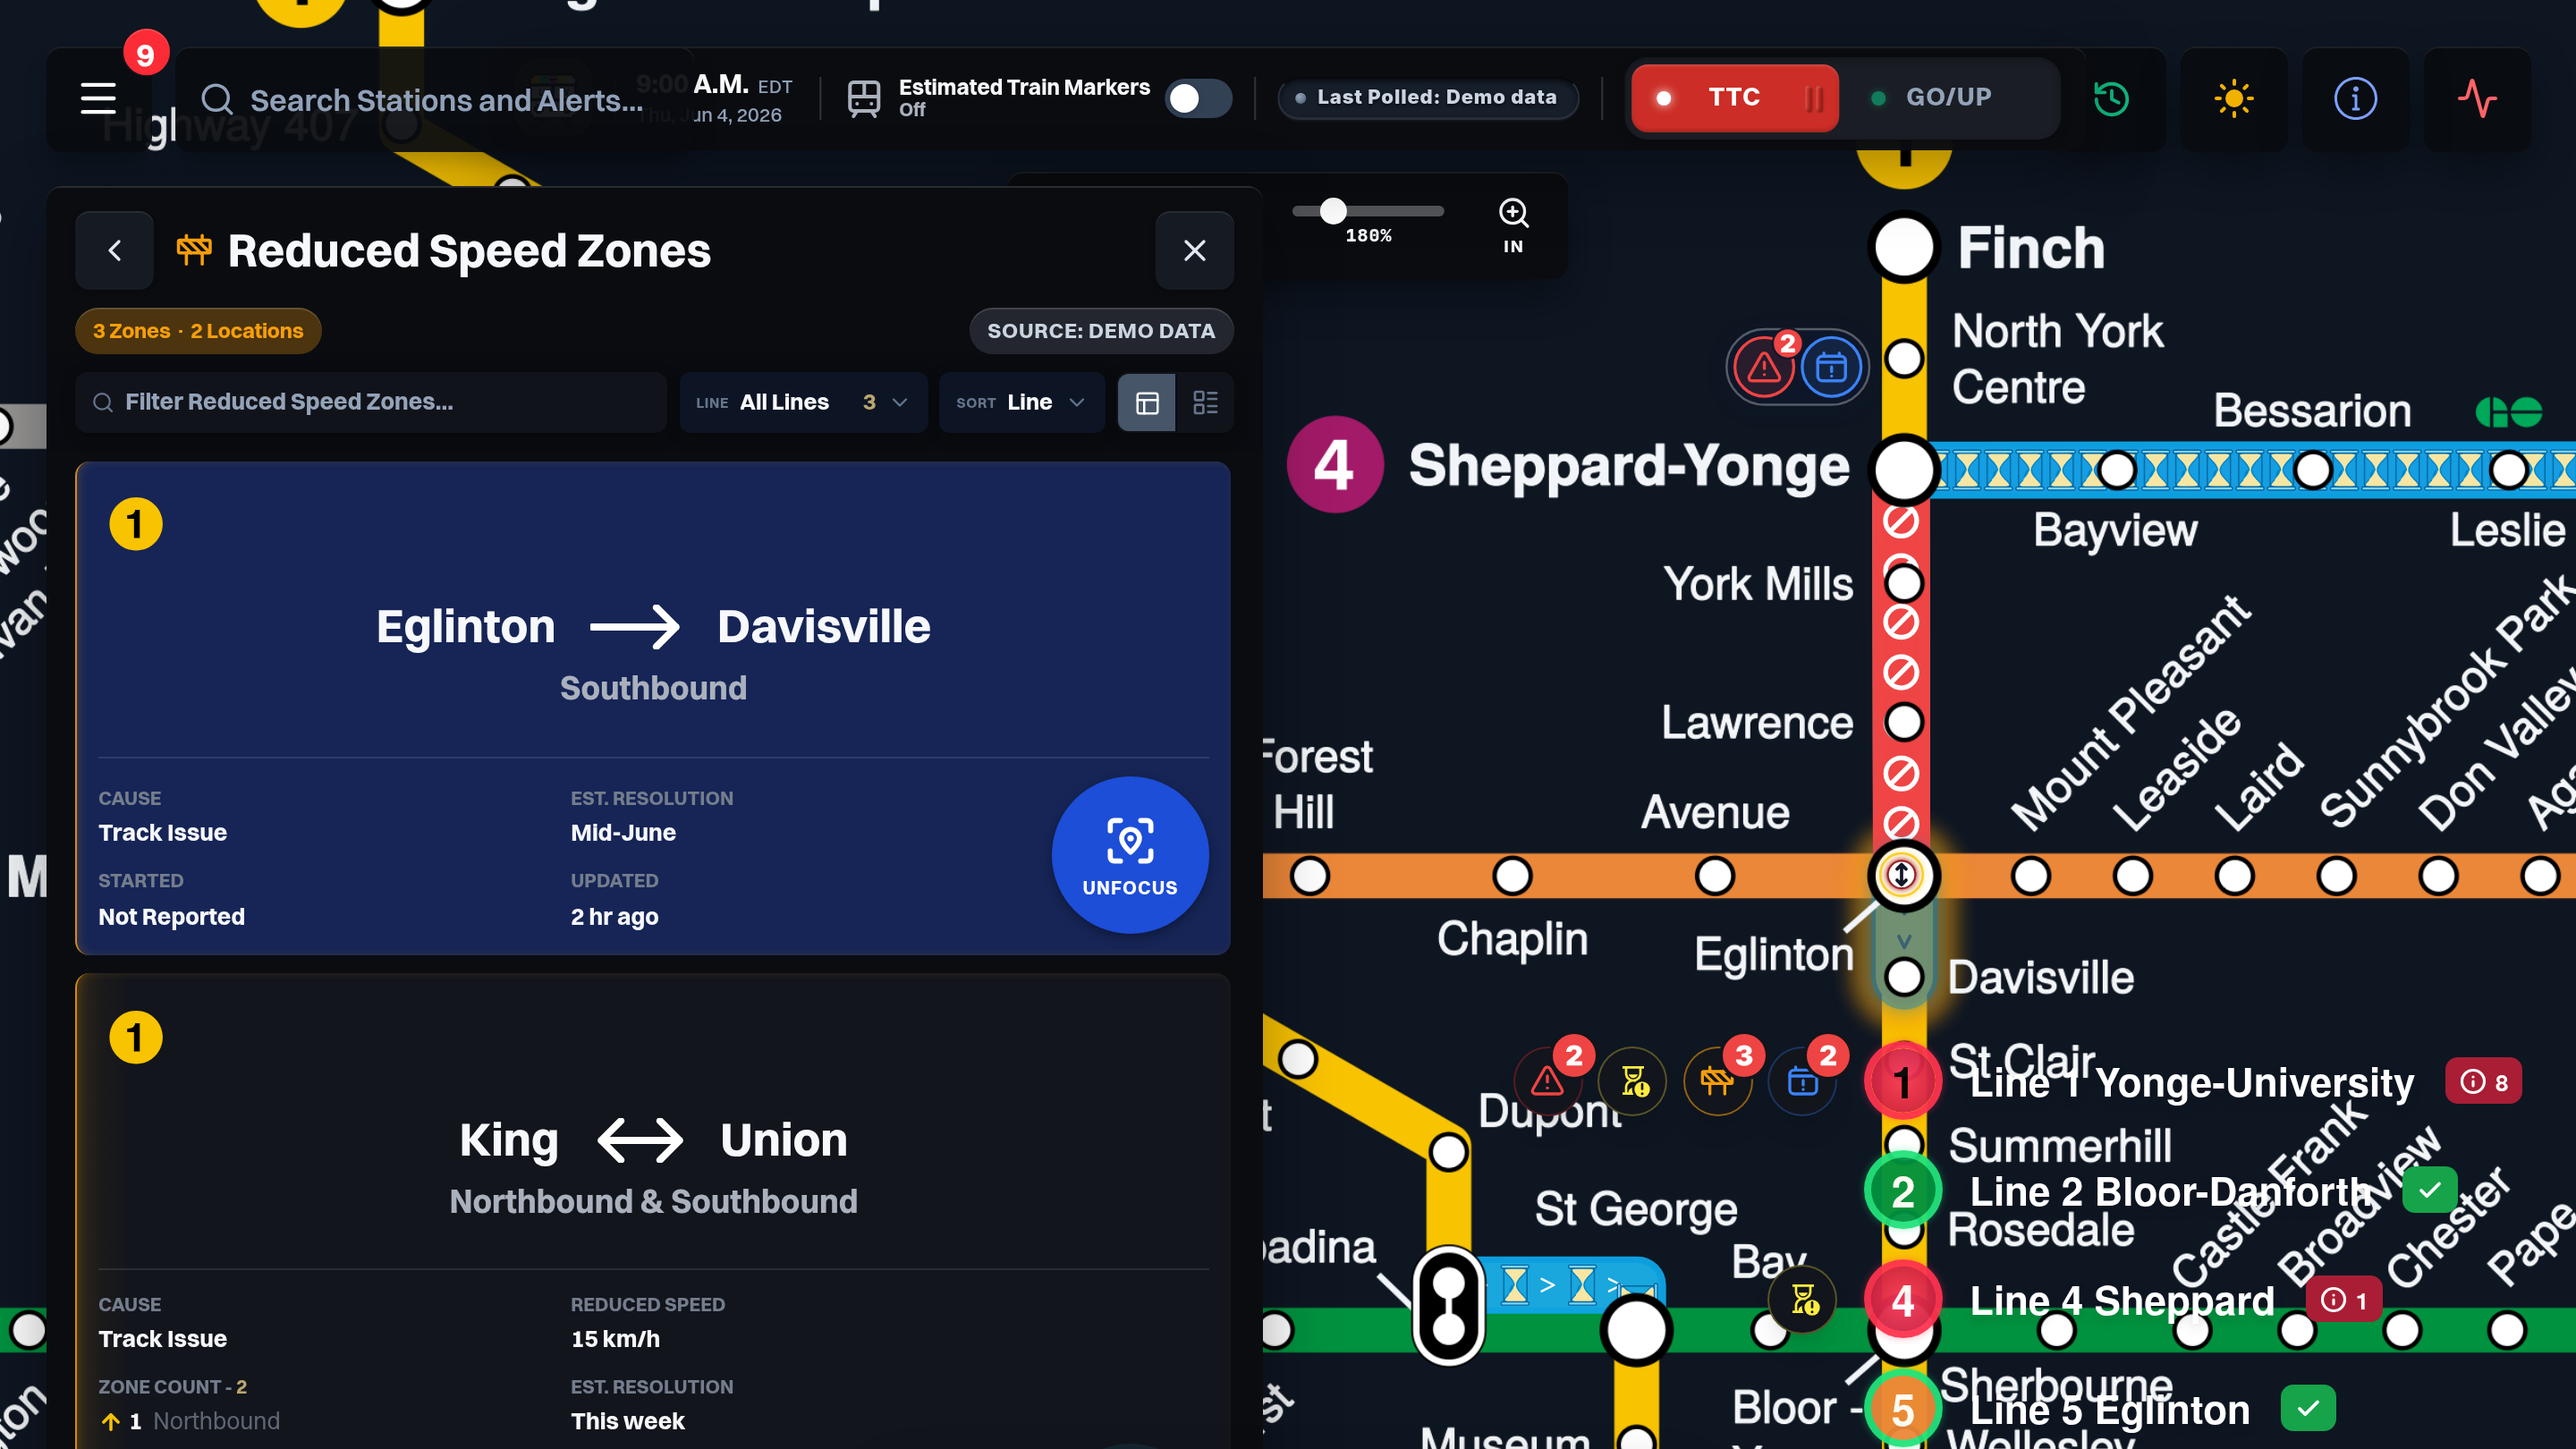
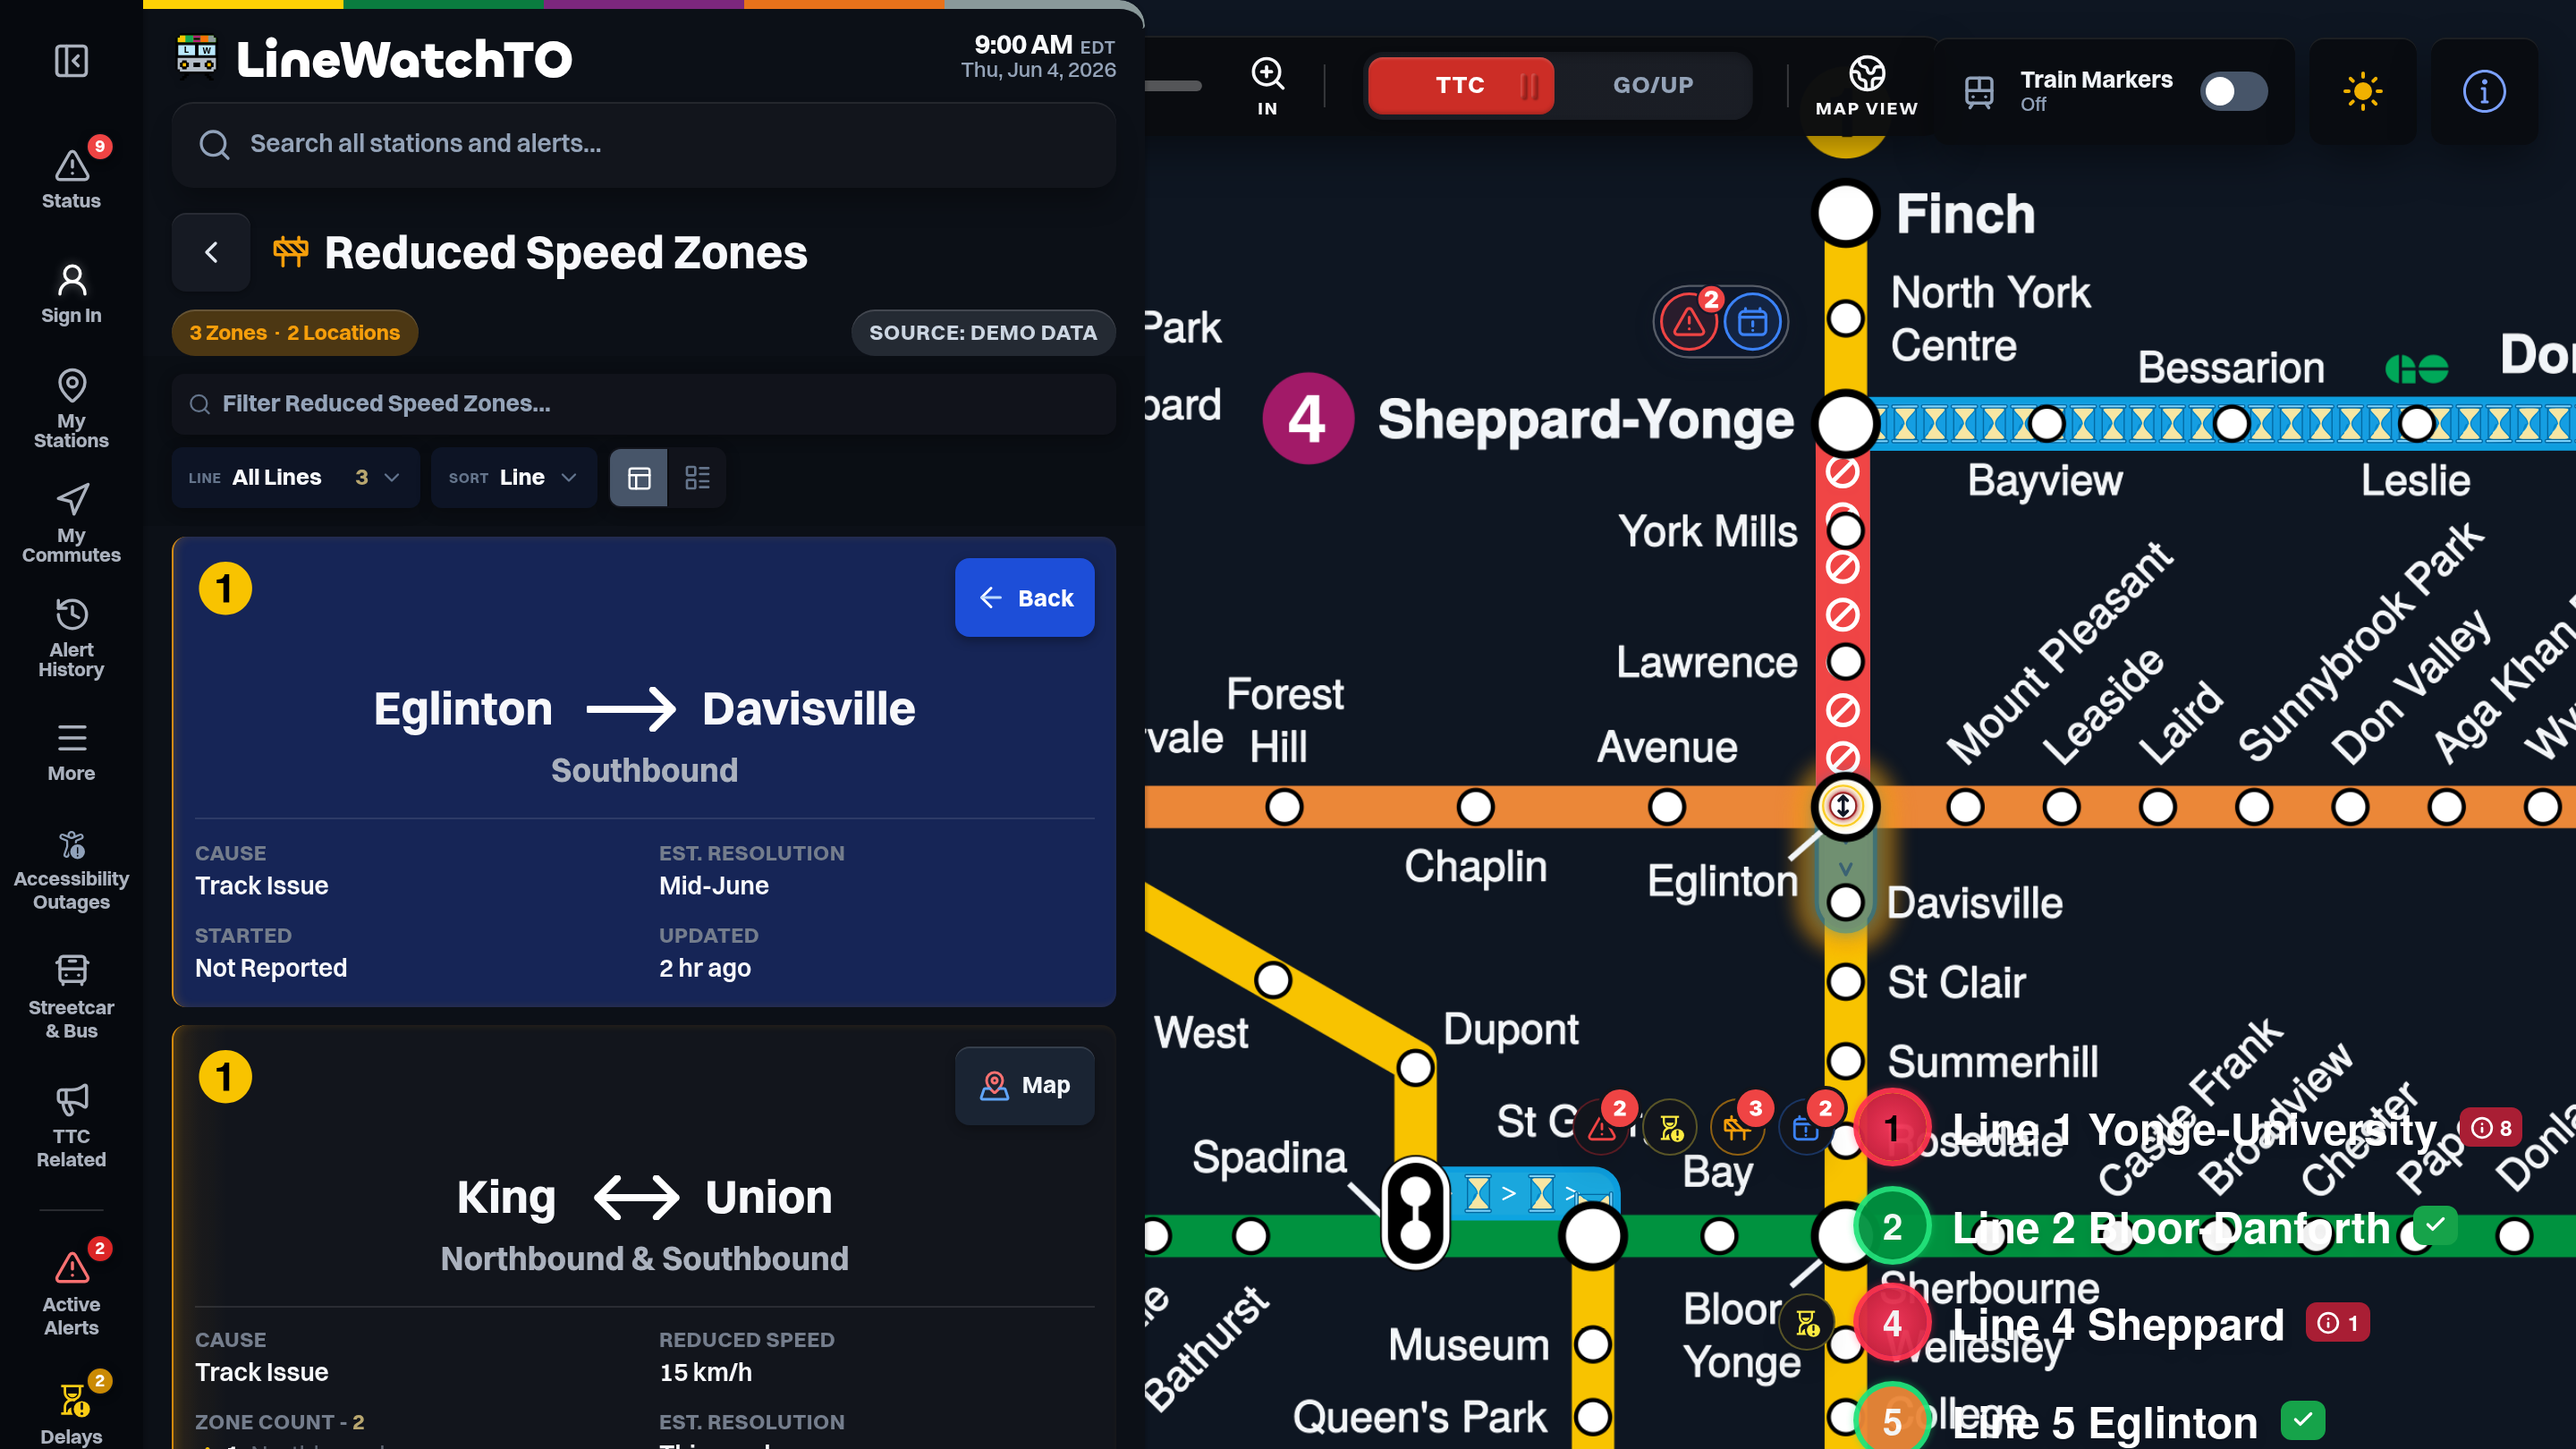
docs(onboarding): refresh slideshow captures for current UI

diff --git a/frontend/tests/onboarding/capture.spec.ts b/frontend/tests/onboarding/capture.spec.ts
@@ -86,8 +86,9 @@ for (const feature of ["map-guide", "impact-details", "my-commutes", "my-station
         await page.getByRole("button", { name: "More", exact: true }).click();
         await page.getByRole("button", { name: feature === "my-commutes" ? "My Commutes" : "My Stations" }).click();
       } else {
-        await page.getByRole("button", { name: "Toggle menu" }).click();
-        await page.getByRole("menuitem", { name: feature === "my-commutes" ? "My Commutes" : "My Stations" }).click();
+        await page.getByRole("navigation", { name: "Navigation destinations" })
+          .getByRole("button", { name: feature === "my-commutes" ? /^My Commutes(?:,|$)/ : /^My Stations(?:,|$)/ })
+          .click();
       }
       const panel = feature === "my-commutes" ? page.locator(".commute-panel").last() : page.getByRole("region", { name: "My Stations" });
       await expect(panel).toBeVisible();
